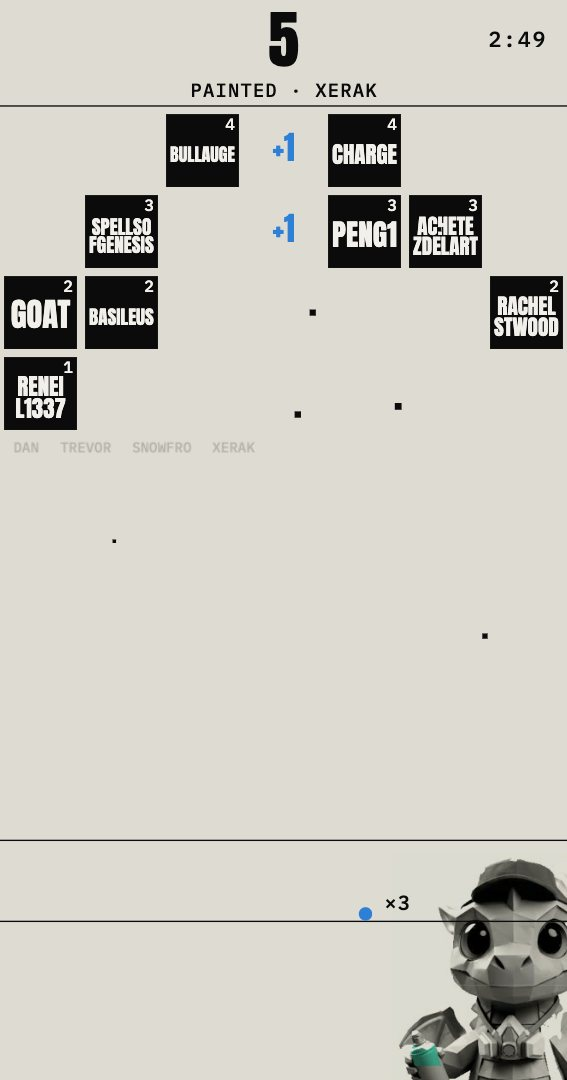
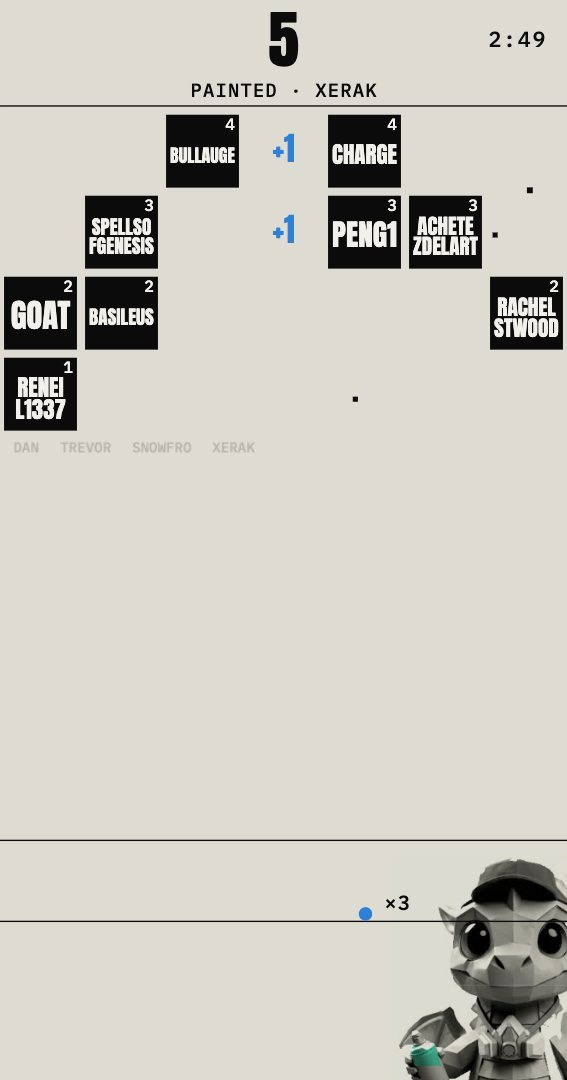
Every week, a jackpot; the new split
- Hub: under today's game, EVERY WEEK, A JACKPOT. with the live /pot amount, very big, and the split.
- The split, one sentence everywhere a player or an artist reads it (games' and hub's (i), builders page, kit): half to
  the week's jackpot, for the best score on each game; 40% to the artist who made the game; 10% to the wall.
- README: it replaces the original 50/35/15 split.

diff --git a/hub/src.html b/hub/src.html
@@ -57,6 +57,13 @@ section{padding:clamp(32px,5vw,72px) var(--padx);border-top:1px solid var(--ink)
 .featured .game .line{font-size:clamp(16px,1.6vw,20px)}
 .featured .shot{max-height:min(52svh,560px)}
 
+/* the week's jackpot */
+.jackpot{background:var(--ink);color:var(--chalk);border-top:0}
+.jackpot h2{font-size:clamp(36px,5vw,72px)}
+.jackpot .amount{margin:clamp(10px,1.6vw,20px) 0 clamp(14px,2vw,24px);font-size:clamp(84px,17vw,240px);line-height:.85;color:var(--blue)}
+.jackpot .line{max-width:60ch;color:var(--chalk)}
+.jackpot .line + .line{margin-top:8px;opacity:.75}
+
 /* 2. the games */
 .grid{display:grid;grid-template-columns:repeat(2,minmax(0,1fr));gap:clamp(14px,2vw,28px)}
 .yours{display:flex;flex-direction:column;justify-content:center;gap:14px;min-height:260px;padding:clamp(18px,2.4vw,32px);border:1px dashed var(--ink)}
@@ -126,7 +133,7 @@ dialog::backdrop{background:rgba(11,11,11,.6)}
     <dt>Scores</dt>
     <dd>The platform replays your inputs on its server and records the score. The browser never sends a score.</dd>
     <dt>Weekly prizes</dt>
-    <dd>One leaderboard per game for the week: Friday 15:00 to Friday 15:00, Lisbon time. The first week runs from Thursday Oct 22, 00:00 to Friday Oct 30, 15:00. Prizes are handled by the organizer.</dd>
+    <dd>One leaderboard per game for the week: Friday 15:00 to Friday 15:00, Lisbon time. The first week runs from Thursday Oct 22, 00:00 to Friday Oct 30, 15:00. Every paid play splits three ways: half to the week's jackpot, for the best score on each game; 40% to the artist who made the game; 10% to the wall.</dd>
     <dt>Paid but no credits?</dt>
     <dd>Open the game's wallet menu, then "purchase help".</dd>
   </dl>
@@ -144,6 +151,16 @@ dialog::backdrop{background:rgba(11,11,11,.6)}
     <p class="line lead">Games built on the names of a real wall in Lisbon. New games every week.</p>
   </div>
   <div class="wrap" style="width:100%" id="featured"></div>
+</section>
+
+<!-- the week's jackpot: the live /pot of the wall's backend (read-only, public) -->
+<section class="jackpot">
+  <div class="wrap">
+    <h2 class="anton">Every week, a jackpot.</h2>
+    <p class="amount anton" id="potAmount" aria-live="polite">— ETH</p>
+    <p class="line">Every paid play splits three ways: half to the week's jackpot, for the best score on each game; 40% to the artist who made the game; 10% to the wall.</p>
+    <p class="line">Winners announced live on People of the Wall every Friday.</p>
+  </div>
 </section>
 
 <!-- 2. the games -->
@@ -285,6 +302,17 @@ try {
       .map(function (x) { return { minted: Boolean(x.minted), name: x.name || '' }; });
     paintWall();
     document.getElementById('liveTag').textContent = ' · live';
+  }).catch(function () {});
+} catch (e) {}
+
+/* ---- the week's jackpot, live (public, read-only); left as "— ETH" if it cannot be read ---- */
+try {
+  fetch(API + '/pot', { cache: 'no-store' }).then(function (r) { return r.json(); }).then(function (d) {
+    if (!d || typeof d.potEth !== 'string' || !/^\d+(\.\d+)?$/.test(d.potEth)) return;
+    var el = document.getElementById('potAmount'), text = d.potEth + ' ETH';
+    el.textContent = text;
+    el.style.fontSize = '';                                   // as big as the width allows (Anton: about half an em a character)
+    el.style.fontSize = Math.min(parseFloat(getComputedStyle(el).fontSize), el.parentElement.clientWidth / (text.length * 0.5)) + 'px';
   }).catch(function () {});
 } catch (e) {}
 

diff --git a/src/index.html b/src/index.html
@@ -147,7 +147,7 @@
         <h3>Server verification</h3>
         <p>A paid run is played on SuperRare's server: the server keeps the clock, replays every move with the game's own rules and records the score. The page never sends a score.</p>
         <h3>Weekly prizes</h3>
-        <p>One leaderboard per game, for the week: Friday 15:00 to Friday 15:00, Lisbon time. The first week runs from Thursday Oct 22, 00:00 to Friday Oct 30, 15:00. Prizes are handled by the organizer.</p>
+        <p>One leaderboard per game, for the week: Friday 15:00 to Friday 15:00, Lisbon time. The first week runs from Thursday Oct 22, 00:00 to Friday Oct 30, 15:00. Every paid play splits three ways: half to the week's jackpot, for the best score on each game; 40% to the artist who made the game; 10% to the wall.</p>
         <h3>Purchase recovery</h3>
         <p>If credits you paid for don't show up, open the wallet, then "purchase help": it continues or claims an unfinished purchase. Never pay a second time for it.</p>
         <p class="info-credit"><a href="https://onthewall.nfcsummit.com" target="_blank" rel="noopener">A Remix The Wall experiment · NFC Summit 2027 · Lisbon</a></p>

diff --git a/hub/builders.html b/hub/builders.html
@@ -98,7 +98,7 @@ footer a{color:var(--label)}
 <section>
   <p class="lbl">The deal</p>
   <div class="cards">
-    <div class="card"><h3 class="anton">You keep what your game earns.</h3><p class="line">Every play on your game is yours. Settled weekly.</p></div>
+    <div class="card"><h3 class="anton">40% of every play is yours.</h3><p class="line">Half feeds the week's jackpot, 10% goes to the wall. Settled weekly.</p></div>
     <div class="card"><h3 class="anton">Every Friday, live.</h3><p class="line">New games open on People of the Wall; the week's best score wins the pot. You're on the show.</p></div>
     <div class="card"><h3 class="anton">Your name on it.</h3><p class="line">Your game, your look. The best are shown next to the painted wall at NFC Summit in May.</p></div>
   </div>

diff --git a/README.md b/README.md
@@ -131,6 +131,12 @@ active group gates unpaid starts at once. Then add it to the hub's `GAMES` list 
 soon as it has an active scoring event. (CLI 0.1.0 applies `add-game` but may report "Unexpected response shape"
 because the API no longer returns `creditCost`: check the group afterwards before retrying.)
 
+## The split
+
+Every paid play splits three ways: half to the week's jackpot, for the best score on each game; 40% to the artist who made the game; 10% to the wall. It is stated once in each place a player or an artist reads it: the games' (i), the hub
+(jackpot block and (i)), the builders page and the kit. It replaces the original 50/35/15 split. The hub's jackpot
+amount is the live `GET https://otw-arcade.netlify.app/pot` (read-only).
+
 ## Required credit line
 
 Every game built from this project or the kit shows, visibly in the game, linked to the wall:

diff --git a/docs/CONNECT-KIT.md b/docs/CONNECT-KIT.md
@@ -64,6 +64,8 @@ THE WALL (public data, free, no key)
 
 IDENTITY (use, remix or ignore): concrete #DEDBD3, ink #0B0B0B, chalk #F2F0EB, one blue #2E7FD6; Anton for titles.
 
+THE DEAL: Every paid play splits three ways: half to the week's jackpot, for the best score on each game; 40% to the artist who made the game; 10% to the wall.
+
 THE RULE
 - The credit line, visible in the game, linked:
   A REMIX THE WALL EXPERIMENT · NFC SUMMIT 2027 · LISBON - https://onthewall.nfcsummit.com
